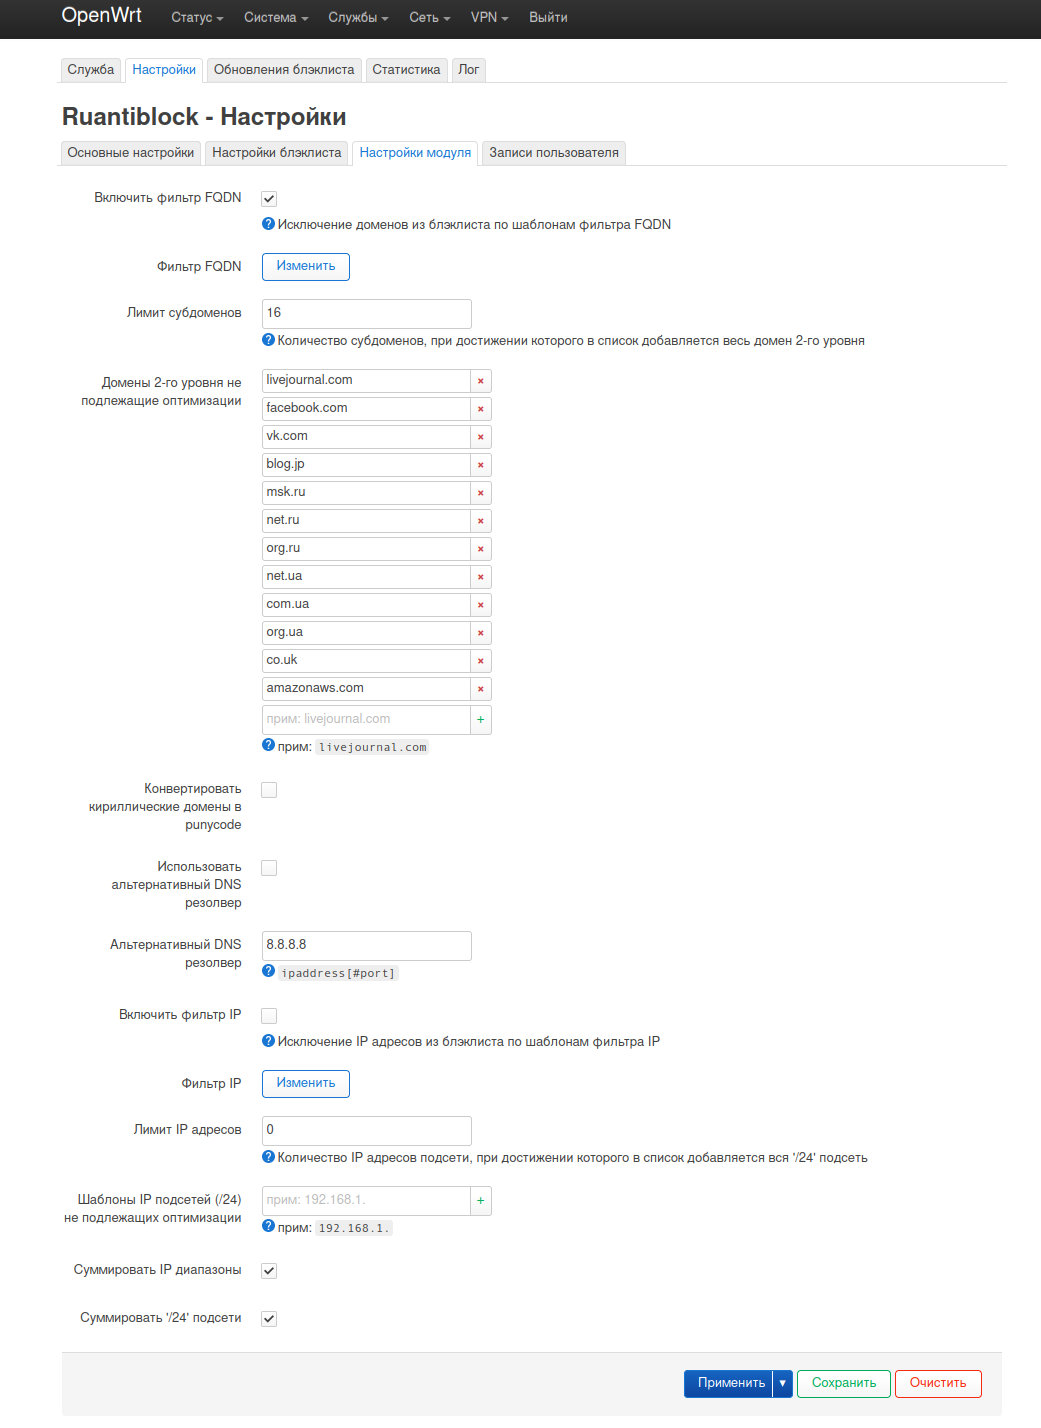
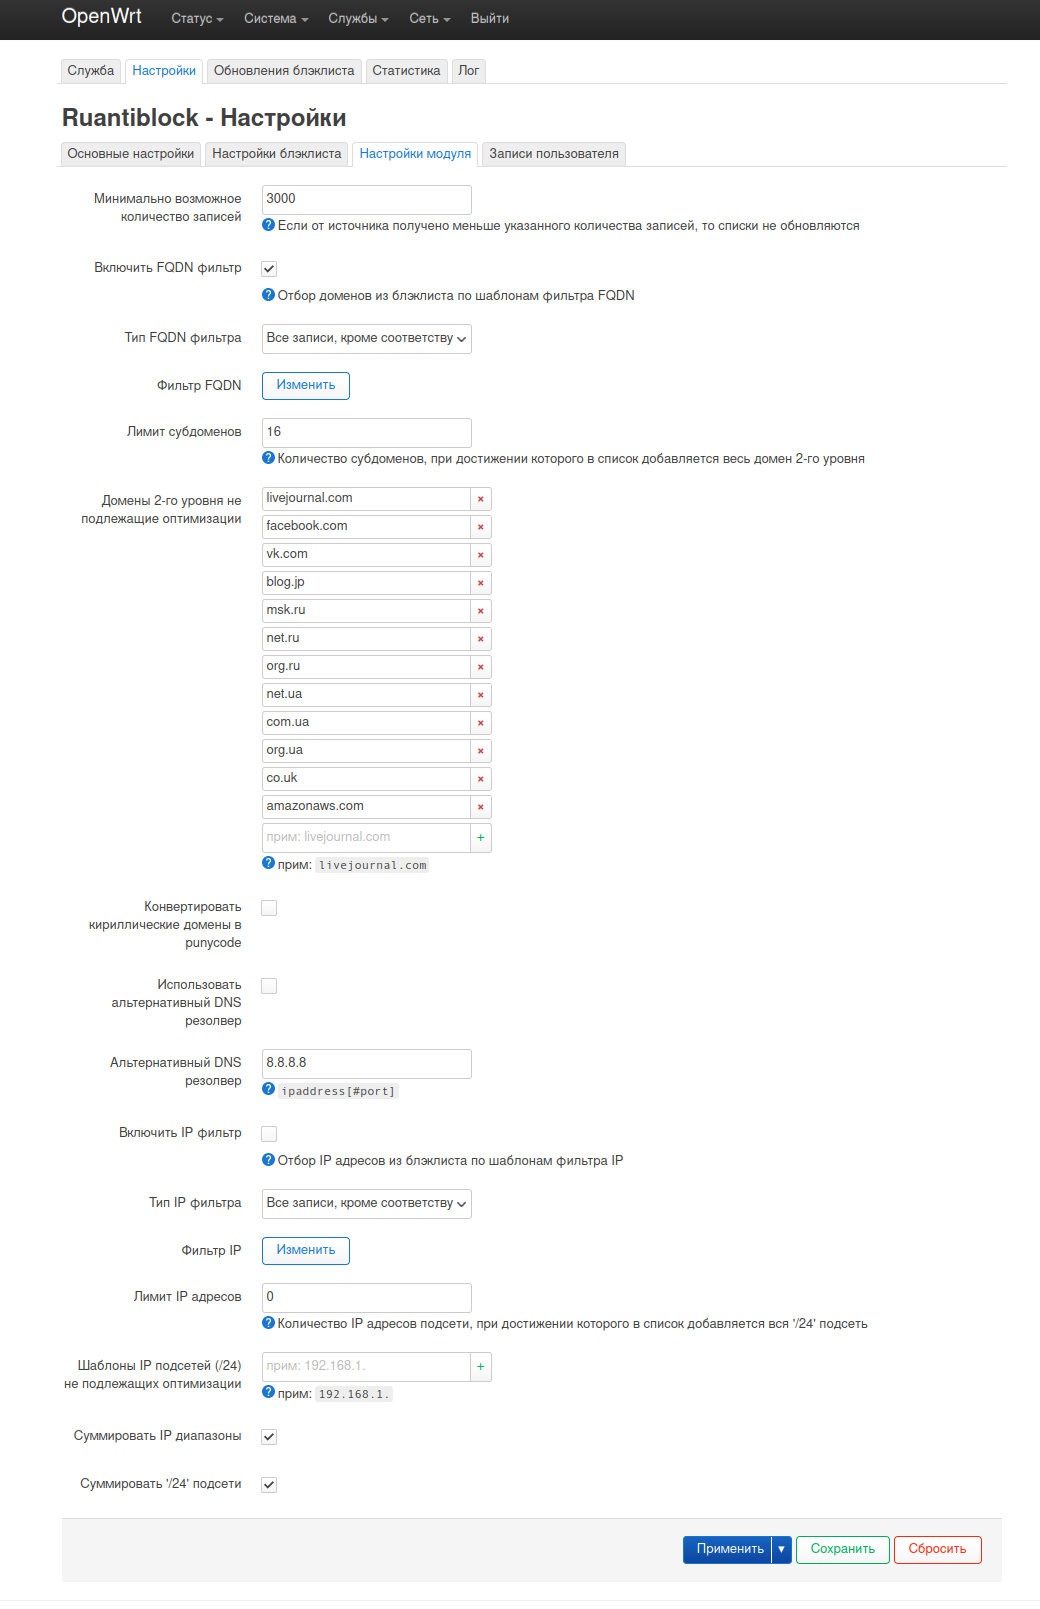
v0.9.7. BLLIST_IP_FILTER_TYPE, BLLIST_FQDN_FILTER_TYPE

Changed region(s): [[0.0308, 0.0, 0.8308, 0.5546], [0.0615, 0.5238, 0.8308, 0.9244], [0.6462, 0.9552, 0.9538, 0.986]]

diff --git a/luci-app-ruantiblock/htdocs/luci-static/resources/view/ruantiblock/settings.js b/luci-app-ruantiblock/htdocs/luci-static/resources/view/ruantiblock/settings.js
@@ -263,11 +263,24 @@ return view.extend({
 
 			s.tab('parser_settings_tab', _('Module settings'));
 
+			// BLLIST_MIN_ENTRIES
+			o = s.taboption('parser_settings_tab', form.Value, 'bllist_min_entries',
+				_("Minimum allowed number of entries"));
+			o.description = _('If less than the specified number of entries are received from the source, then the lists are not updated');
+			o.rmempty     = false;
+			o.datatype    = 'uinteger';
+
 			// BLLIST_FQDN_FILTER
 			o = s.taboption('parser_settings_tab', form.Flag, 'bllist_fqdn_filter',
 				_("Enable FQDN filter"));
-			o.description = _('Exclude domains from blacklist by FQDN filter patterns');
+			o.description = _('Pick domains from blacklist by FQDN filter patterns');
 			o.rmempty     = false;
+
+			// BLLIST_FQDN_FILTER_TYPE
+			o = s.taboption('parser_settings_tab', form.ListValue, 'bllist_fqdn_filter_type',
+				_('FQDN filter type'));
+			o.value('0', _('All entries except matching expressions'));
+			o.value('1', _('Only entries matching expressions'));
 
 			// BLLIST_FQDN_FILTER_FILE edit dialog
 			o = s.taboption('parser_settings_tab', form.Button, '_fqdn_filter_btn',
@@ -309,8 +322,14 @@ return view.extend({
 			// BLLIST_IP_FILTER
 			o = s.taboption('parser_settings_tab', form.Flag, 'bllist_ip_filter',
 				_("Enable IP filter"));
-			o.description = _('Exclude IP addresses from blacklist by IP filter patterns');
+			o.description = _('Pick IP addresses from blacklist by IP filter patterns');
 			o.rmempty     = false;
+
+			// BLLIST_IP_FILTER_TYPE
+			o = s.taboption('parser_settings_tab', form.ListValue, 'bllist_ip_filter_type',
+				_('IP filter type'));
+			o.value('0', _('All entries except matching expressions'));
+			o.value('1', _('Only entries matching expressions'));
 
 			// BLLIST_IP_FILTER_FILE edit dialog
 			o = s.taboption('parser_settings_tab', form.Button, '_ip_filter_btn',

diff --git a/ruantiblock-mod-py/files/usr/libexec/ruantiblock/ruab_parser.py b/ruantiblock-mod-py/files/usr/libexec/ruantiblock/ruab_parser.py
@@ -27,8 +27,10 @@ class Config:
         "BLLIST_GR_EXCLUDED_SLD",
         "BLLIST_GR_EXCLUDED_MASKS",
         "BLLIST_FQDN_FILTER",
+        "BLLIST_FQDN_FILTER_TYPE",
         "BLLIST_FQDN_FILTER_FILE",
         "BLLIST_IP_FILTER",
+        "BLLIST_IP_FILTER_TYPE",
         "BLLIST_IP_FILTER_FILE",
         "BLLIST_SD_LIMIT",
         "BLLIST_IP_LIMIT",
@@ -234,12 +236,12 @@ class BlackListParser(Config):
                     pass
 
     @staticmethod
-    def _check_filter(string, filter_patterns):
+    def _check_filter(string, filter_patterns, reverse=False):
         if filter_patterns and string:
             for pattern in filter_patterns:
                 if pattern and pattern.search(string):
-                    return True
-        return False
+                    return not reverse
+        return reverse
 
     def _get_subnet(self, ip_addr):
         regexp_obj = self.ip_pattern.fullmatch(ip_addr)
@@ -247,7 +249,8 @@ class BlackListParser(Config):
 
     def ip_field_processing(self, string):
         for i in string.split(self.ips_separator):
-            if self.BLLIST_IP_FILTER and self._check_filter(i, self.BLLIST_IP_FILTER_PATTERNS):
+            if self.BLLIST_IP_FILTER and self._check_filter(
+                i, self.BLLIST_IP_FILTER_PATTERNS, self.BLLIST_IP_FILTER_TYPE):
                 continue
             if self.ip_pattern.fullmatch(i) and i not in self.ip_set:
                 subnet = self._get_subnet(i)
@@ -284,7 +287,8 @@ class BlackListParser(Config):
         if self.BLLIST_STRIP_WWW:
             string = self.www_pattern.sub("", string)
         if not self.BLLIST_FQDN_FILTER or (
-            self.BLLIST_FQDN_FILTER and not self._check_filter(string, self.BLLIST_FQDN_FILTER_PATTERNS)
+            self.BLLIST_FQDN_FILTER and not self._check_filter(
+                string, self.BLLIST_FQDN_FILTER_PATTERNS, self.BLLIST_FQDN_FILTER_TYPE)
         ):
             if self.fqdn_pattern.fullmatch(string):
                 string = self._convert_to_punycode(string)
@@ -447,7 +451,6 @@ class AfIp(BlackListParser):
     def __init__(self, *args, **kwargs):
         super().__init__(*args, **kwargs)
         self.url = self.AF_IP_URL
-        self.BLLIST_MIN_ENTRIES = 100
 
     def parser_func(self):
         for entry in self._split_entries():
